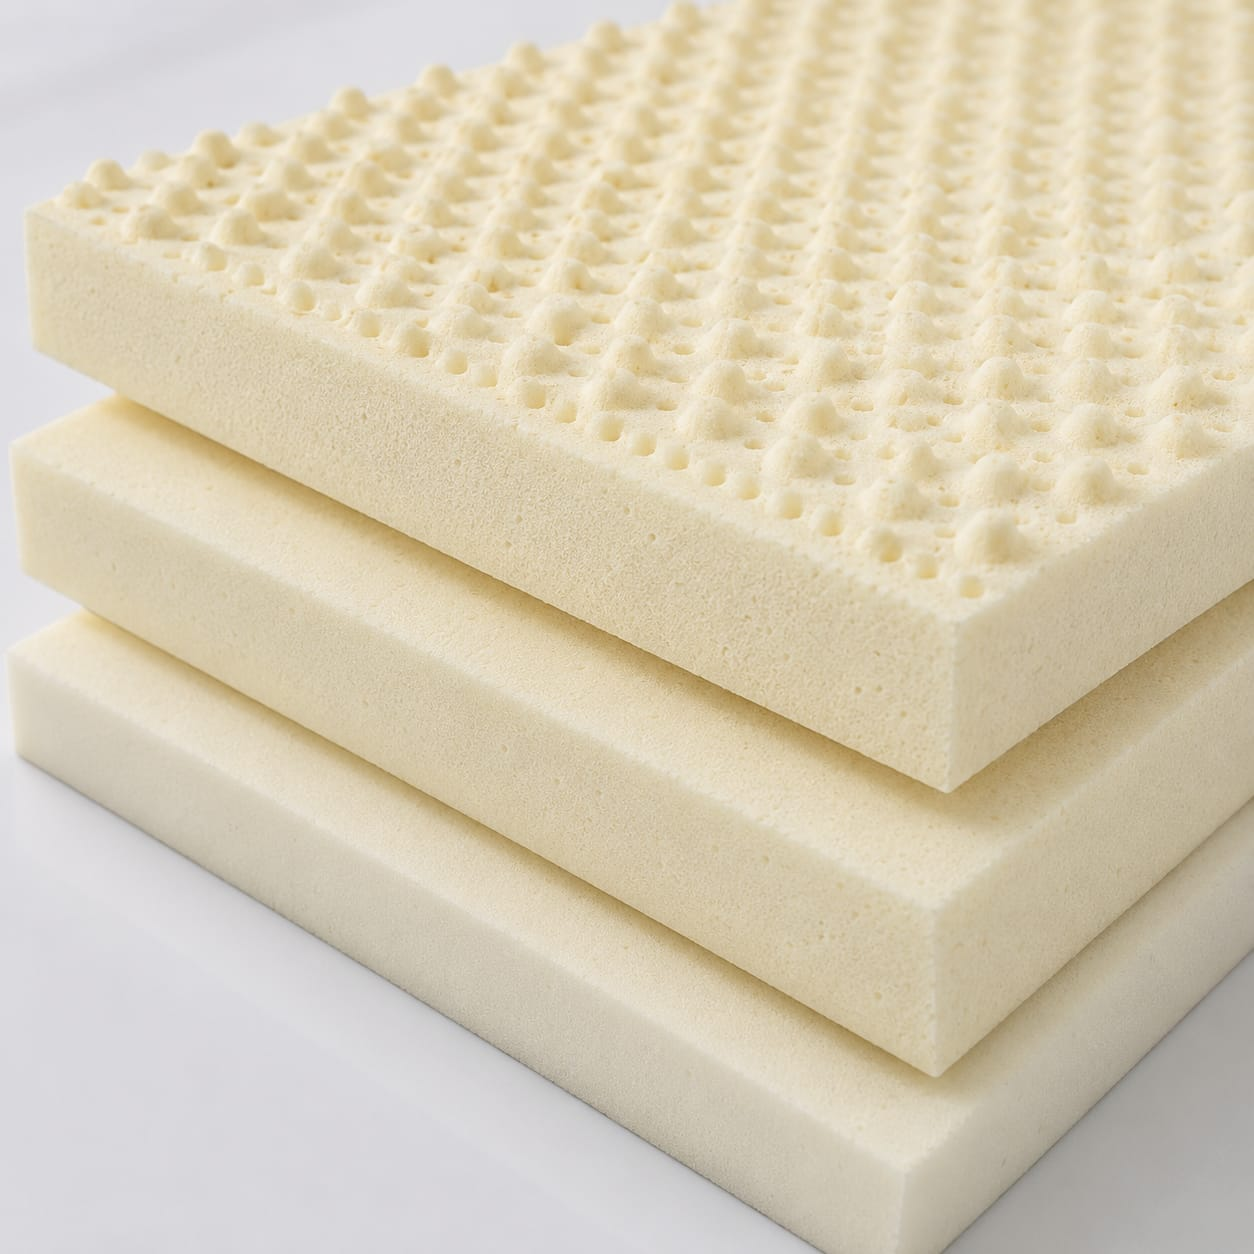
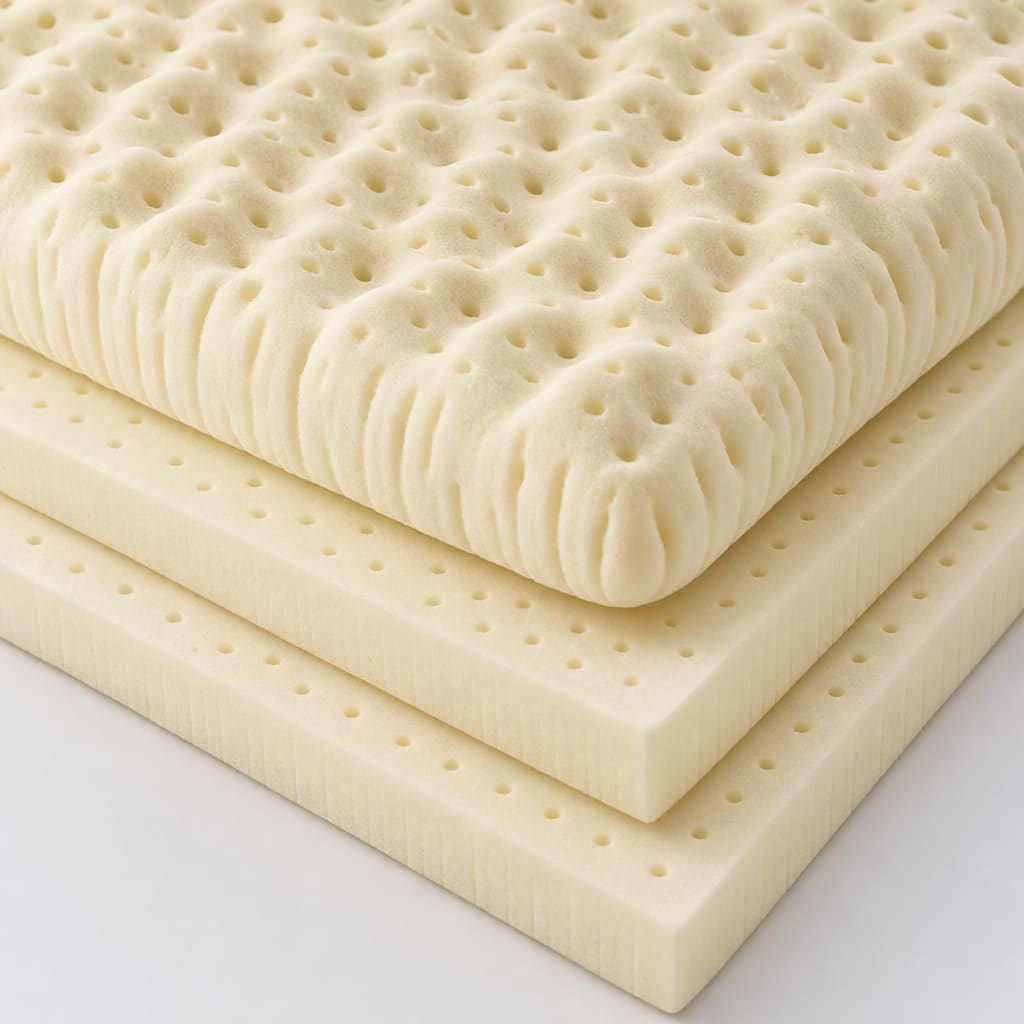
601748 Ortopedic Vario: klin na profilu + zaobljen rob zgornje plasti (sloti 2,4,5)

diff --git a/vzglavnik-ortopedic-vario.html b/vzglavnik-ortopedic-vario.html
@@ -21,6 +21,6 @@
   @media (prefers-color-scheme: dark) { :root { --bg:#191713; --ink:#ece7df; --muted:#97907f; } figure { background:#221f1a; box-shadow:0 1px 3px rgba(0,0,0,.4);} }
 </style></head>
 <body><header><div class="eyebrow">Vitapur · Vzglavniki</div><h1>Ortopedic Vario</h1><p>SKU 601748 · 62×30 cm, višina 7–11 cm · jedro iz TREH snemljivih lateks plasti · prevleka: čista bela pletenina s pin-dot vzorcem, bela zadrga, brez vzorca in napisov</p><a class="back" href="index.html">&larr; Vsi vzglavniki</a></header>
-<div class="grid"><figure><a href="img/vzglavnik-ortopedic-vario/01_entry.jpg?v=20260728" target="_blank"><img src="img/vzglavnik-ortopedic-vario/01_entry.jpg?v=20260728" alt="1 · ENTRY — Naslovni hero" loading="lazy"></a><figcaption><span class="num">01<span class="hero-tag">MAIN</span></span><div class="cap">1 · ENTRY — Naslovni hero</div></figcaption></figure><figure><a href="img/vzglavnik-ortopedic-vario/02_polnilo.jpg?v=20260728" target="_blank"><img src="img/vzglavnik-ortopedic-vario/02_polnilo.jpg?v=20260728" alt="2 · POLNILO — Tri lateks plasti" loading="lazy"></a><figcaption><span class="num">02</span><div class="cap">2 · POLNILO — Tri lateks plasti</div></figcaption></figure><figure><a href="img/vzglavnik-ortopedic-vario/03_prevleka.jpg" target="_blank"><img src="img/vzglavnik-ortopedic-vario/03_prevleka.jpg" alt="3 · PREVLEKA — Bela prevleka + zadrga" loading="lazy"></a><figcaption><span class="num">03</span><div class="cap">3 · PREVLEKA — Bela prevleka + zadrga</div></figcaption></figure><figure><a href="img/vzglavnik-ortopedic-vario/04_profil.jpg" target="_blank"><img src="img/vzglavnik-ortopedic-vario/04_profil.jpg" alt="4 · PROFIL — Naklon 7 → 11 cm" loading="lazy"></a><figcaption><span class="num">04</span><div class="cap">4 · PROFIL — Naklon 7 → 11 cm</div></figcaption></figure><figure><a href="img/vzglavnik-ortopedic-vario/05_tehnologija.jpg" target="_blank"><img src="img/vzglavnik-ortopedic-vario/05_tehnologija.jpg" alt="5 · TEHNOLOGIJA — Nastavljiva višina in naklon" loading="lazy"></a><figcaption><span class="num">05</span><div class="cap">5 · TEHNOLOGIJA — Nastavljiva višina in naklon</div></figcaption></figure><figure><a href="img/vzglavnik-ortopedic-vario/06_ljudje.jpg" target="_blank"><img src="img/vzglavnik-ortopedic-vario/06_ljudje.jpg" alt="6 · LJUDJE — Življenjski slog" loading="lazy"></a><figcaption><span class="num">06</span><div class="cap">6 · LJUDJE — Življenjski slog</div></figcaption></figure></div>
+<div class="grid"><figure><a href="img/vzglavnik-ortopedic-vario/01_entry.jpg?v=20260728" target="_blank"><img src="img/vzglavnik-ortopedic-vario/01_entry.jpg?v=20260728" alt="1 · ENTRY — Naslovni hero" loading="lazy"></a><figcaption><span class="num">01<span class="hero-tag">MAIN</span></span><div class="cap">1 · ENTRY — Naslovni hero</div></figcaption></figure><figure><a href="img/vzglavnik-ortopedic-vario/02_polnilo.jpg?v=20260728b" target="_blank"><img src="img/vzglavnik-ortopedic-vario/02_polnilo.jpg?v=20260728b" alt="2 · POLNILO — Tri lateks plasti" loading="lazy"></a><figcaption><span class="num">02</span><div class="cap">2 · POLNILO — Tri lateks plasti</div></figcaption></figure><figure><a href="img/vzglavnik-ortopedic-vario/03_prevleka.jpg" target="_blank"><img src="img/vzglavnik-ortopedic-vario/03_prevleka.jpg" alt="3 · PREVLEKA — Bela prevleka + zadrga" loading="lazy"></a><figcaption><span class="num">03</span><div class="cap">3 · PREVLEKA — Bela prevleka + zadrga</div></figcaption></figure><figure><a href="img/vzglavnik-ortopedic-vario/04_profil.jpg?v=20260728b" target="_blank"><img src="img/vzglavnik-ortopedic-vario/04_profil.jpg?v=20260728b" alt="4 · PROFIL — Naklon 7 → 11 cm" loading="lazy"></a><figcaption><span class="num">04</span><div class="cap">4 · PROFIL — Naklon 7 → 11 cm</div></figcaption></figure><figure><a href="img/vzglavnik-ortopedic-vario/05_tehnologija.jpg?v=20260728b" target="_blank"><img src="img/vzglavnik-ortopedic-vario/05_tehnologija.jpg?v=20260728b" alt="5 · TEHNOLOGIJA — Nastavljiva višina in naklon" loading="lazy"></a><figcaption><span class="num">05</span><div class="cap">5 · TEHNOLOGIJA — Nastavljiva višina in naklon</div></figcaption></figure><figure><a href="img/vzglavnik-ortopedic-vario/06_ljudje.jpg" target="_blank"><img src="img/vzglavnik-ortopedic-vario/06_ljudje.jpg" alt="6 · LJUDJE — Življenjski slog" loading="lazy"></a><figcaption><span class="num">06</span><div class="cap">6 · LJUDJE — Življenjski slog</div></figcaption></figure></div>
 <footer>Koncept galerije — julij 2026 · Vitapur · komentar vpiši pod posamezno sliko</footer><script src="comments.js" defer></script>
 </body></html>
